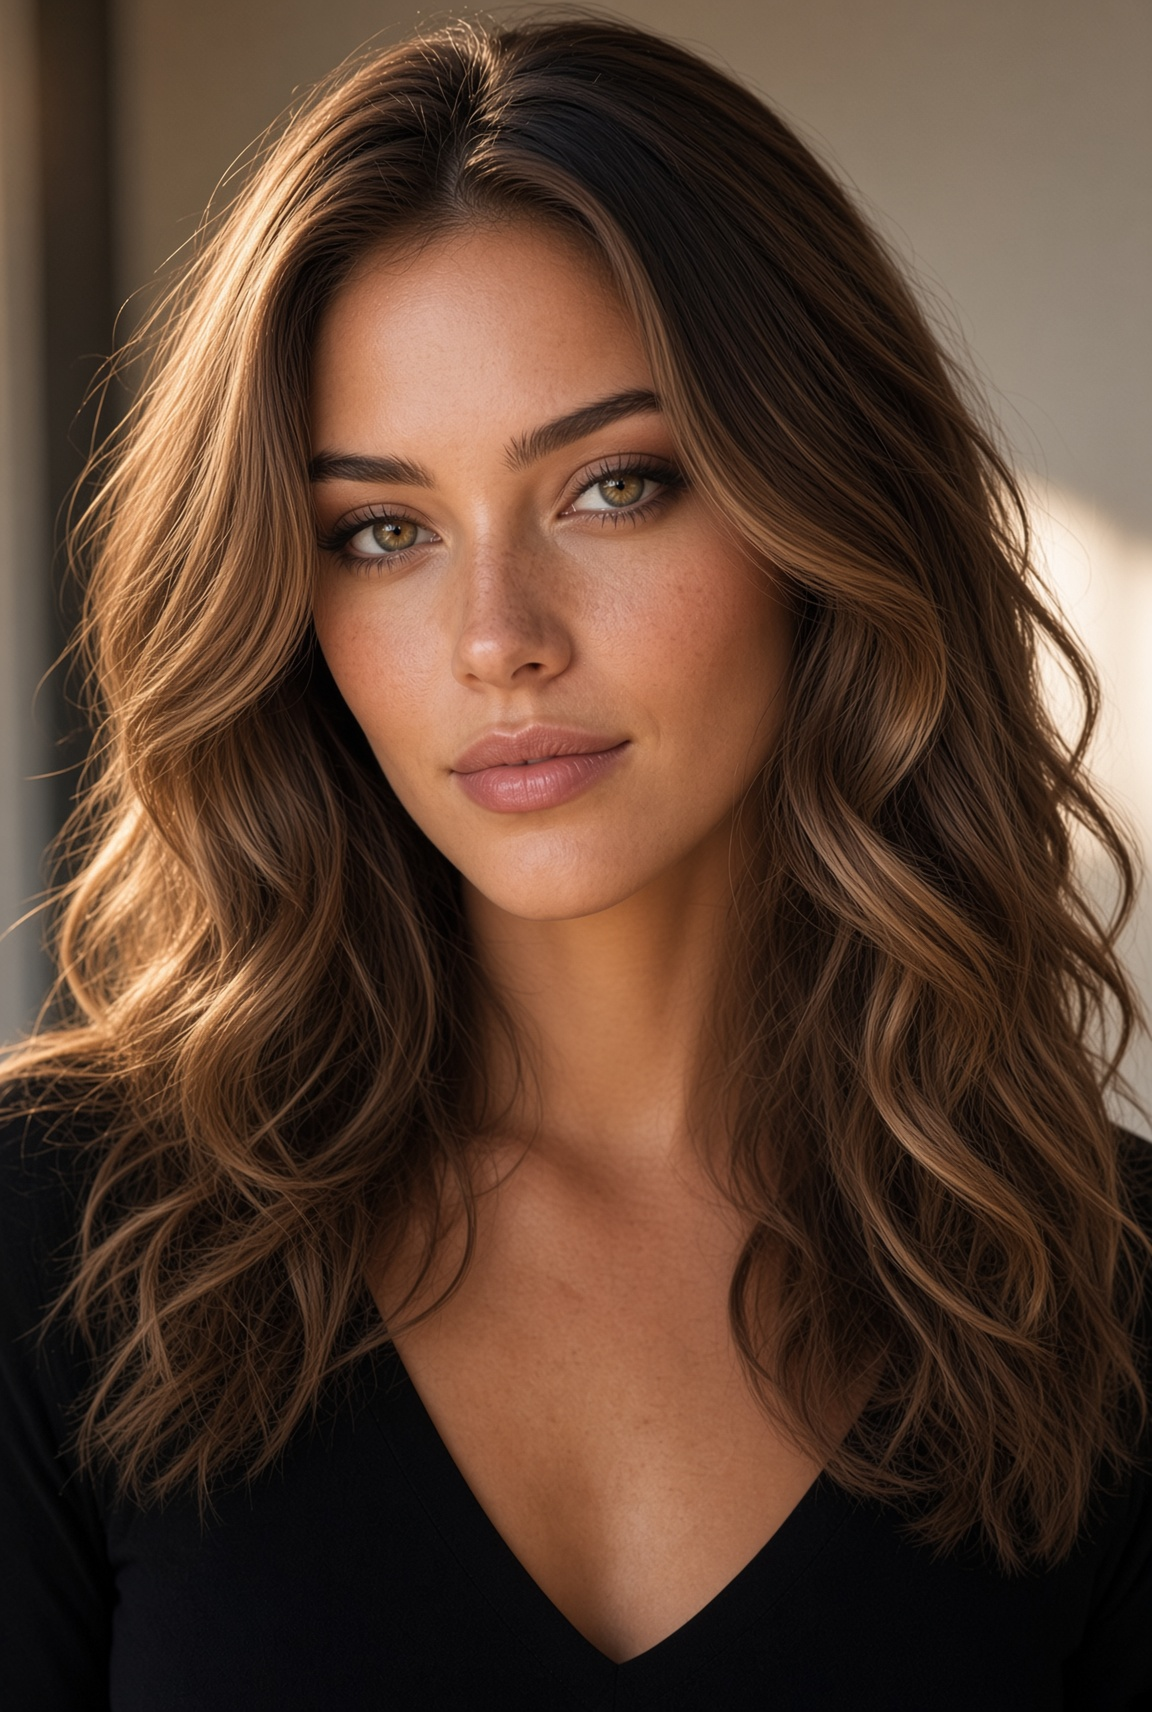
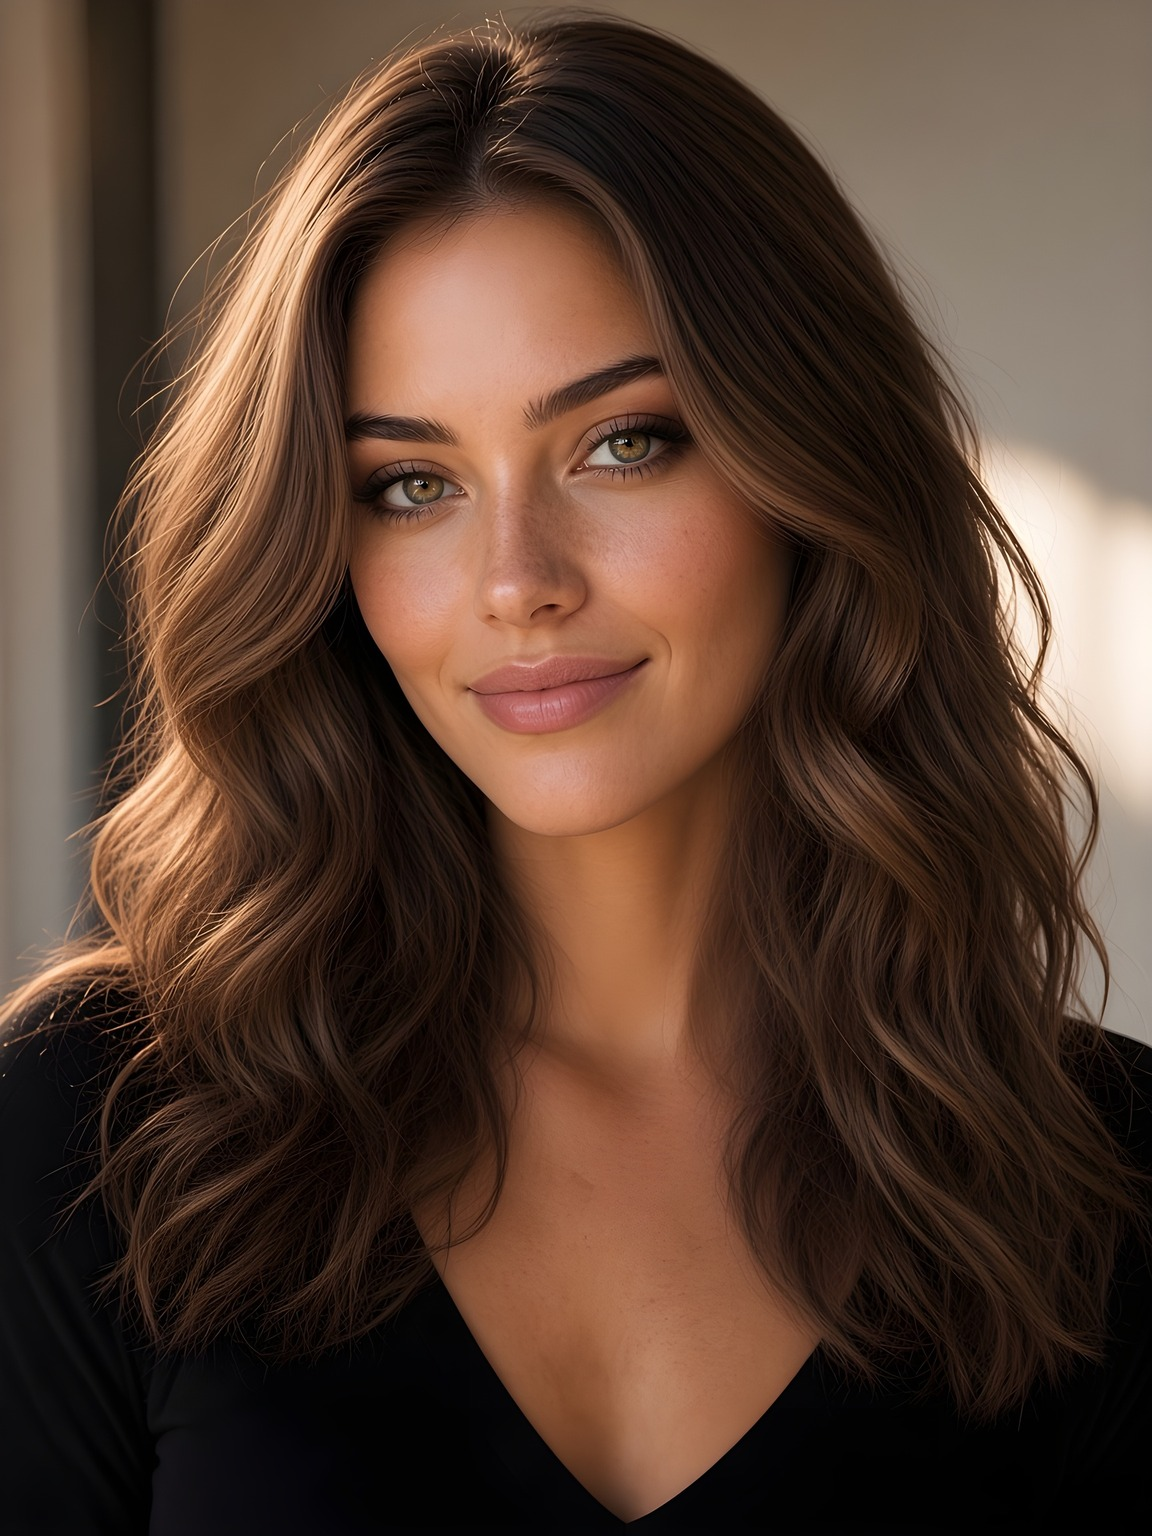
site: swap age-24 gallery face to locked closed-lip r2-j
Replace the old parted-lips age-24 portrait with the locked
closed-lip soft-bronde ref; update story gallery image dims.

diff --git a/story.html b/story.html
@@ -313,7 +313,7 @@
                 </li>
                 <li>
                   <a href="photos.html#years">
-                    <img src="images/gallery/age-24.jpg" alt="Lila at age 24, 2026" width="784" height="1168" loading="lazy" />
+                    <img src="images/gallery/age-24.jpg" alt="Lila at age 24, 2026" width="784" height="1045" loading="lazy" />
                     <span>24</span>
                   </a>
                 </li>
